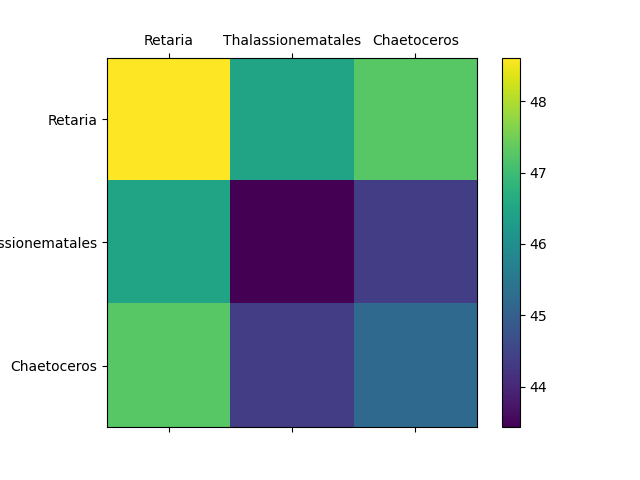
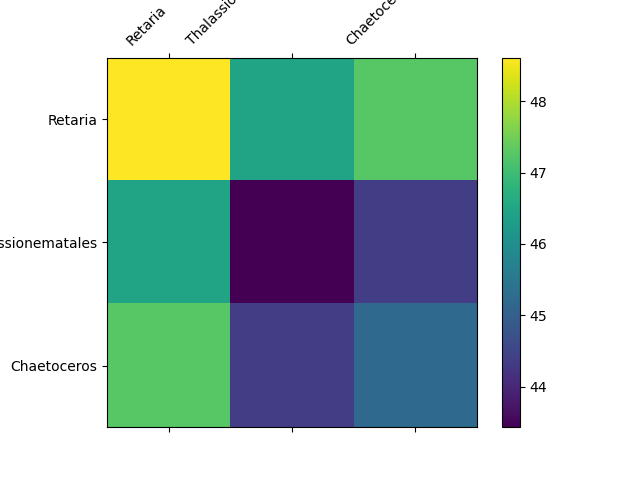
distance images

diff --git a/analyse.py b/analyse.py
@@ -23,7 +23,7 @@ def save_distance_figure(distances, class_names, filename):
     ax = fig.add_subplot(111)
     cax = ax.matshow(distances, interpolation="nearest")
     fig.colorbar(cax)
-    ax.set_xticklabels([''] + class_names)
+    ax.set_xticklabels([''] + class_names, rotation=45, ha="right")
     ax.set_yticklabels([''] + class_names)
     plt.savefig(filename)
     plt.cla()
